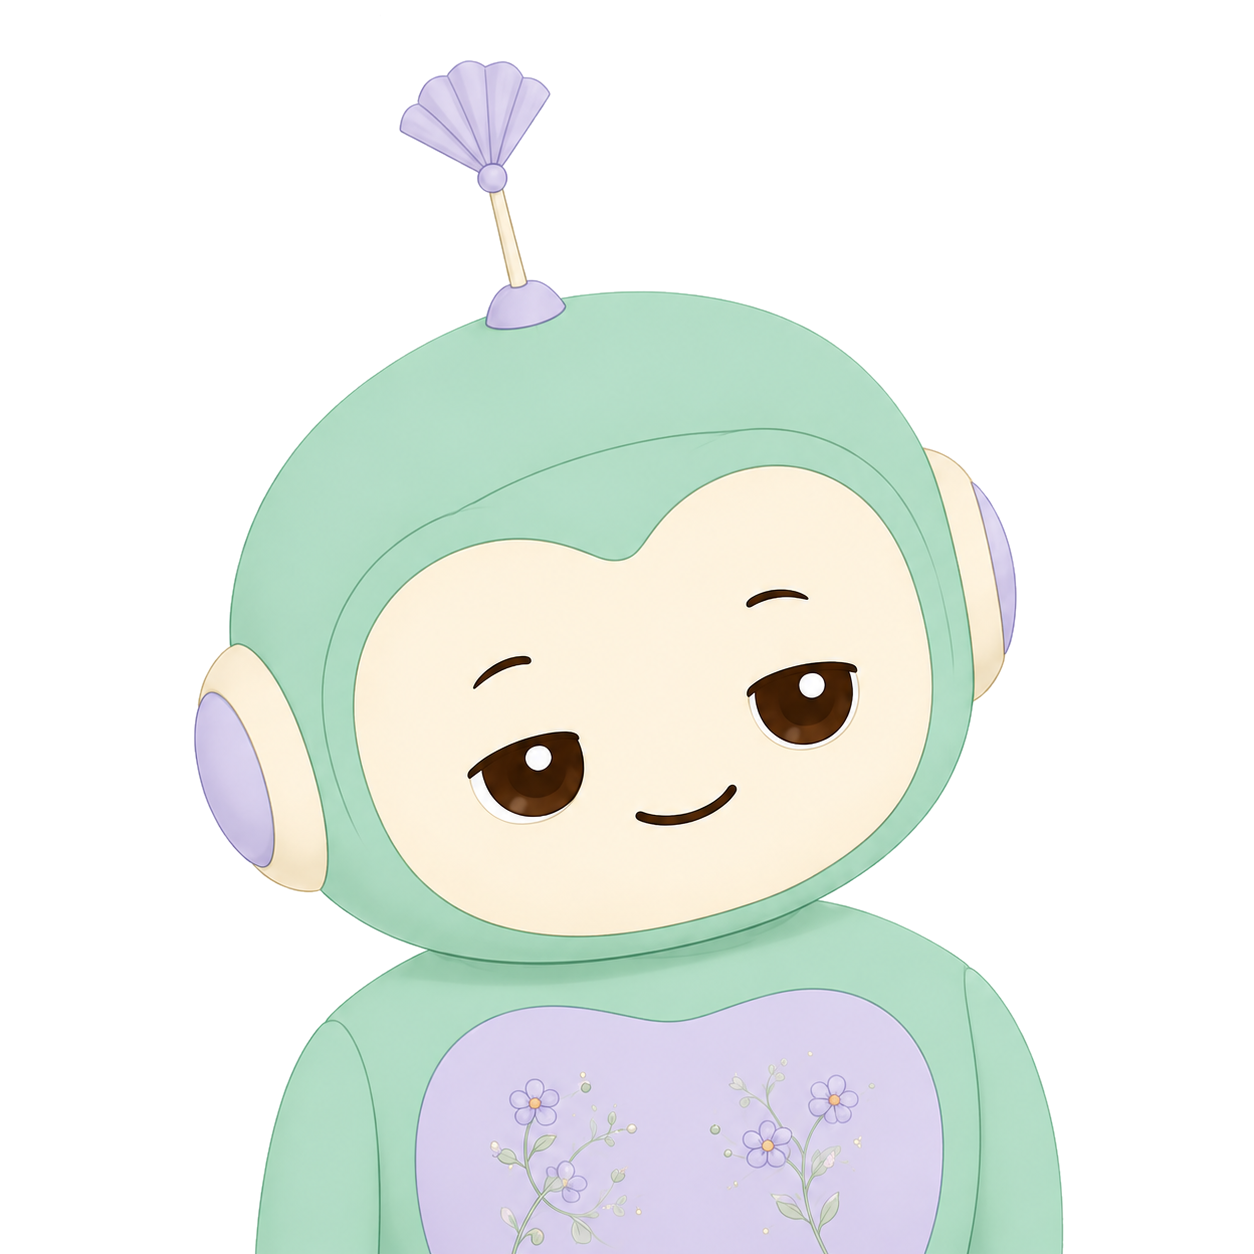
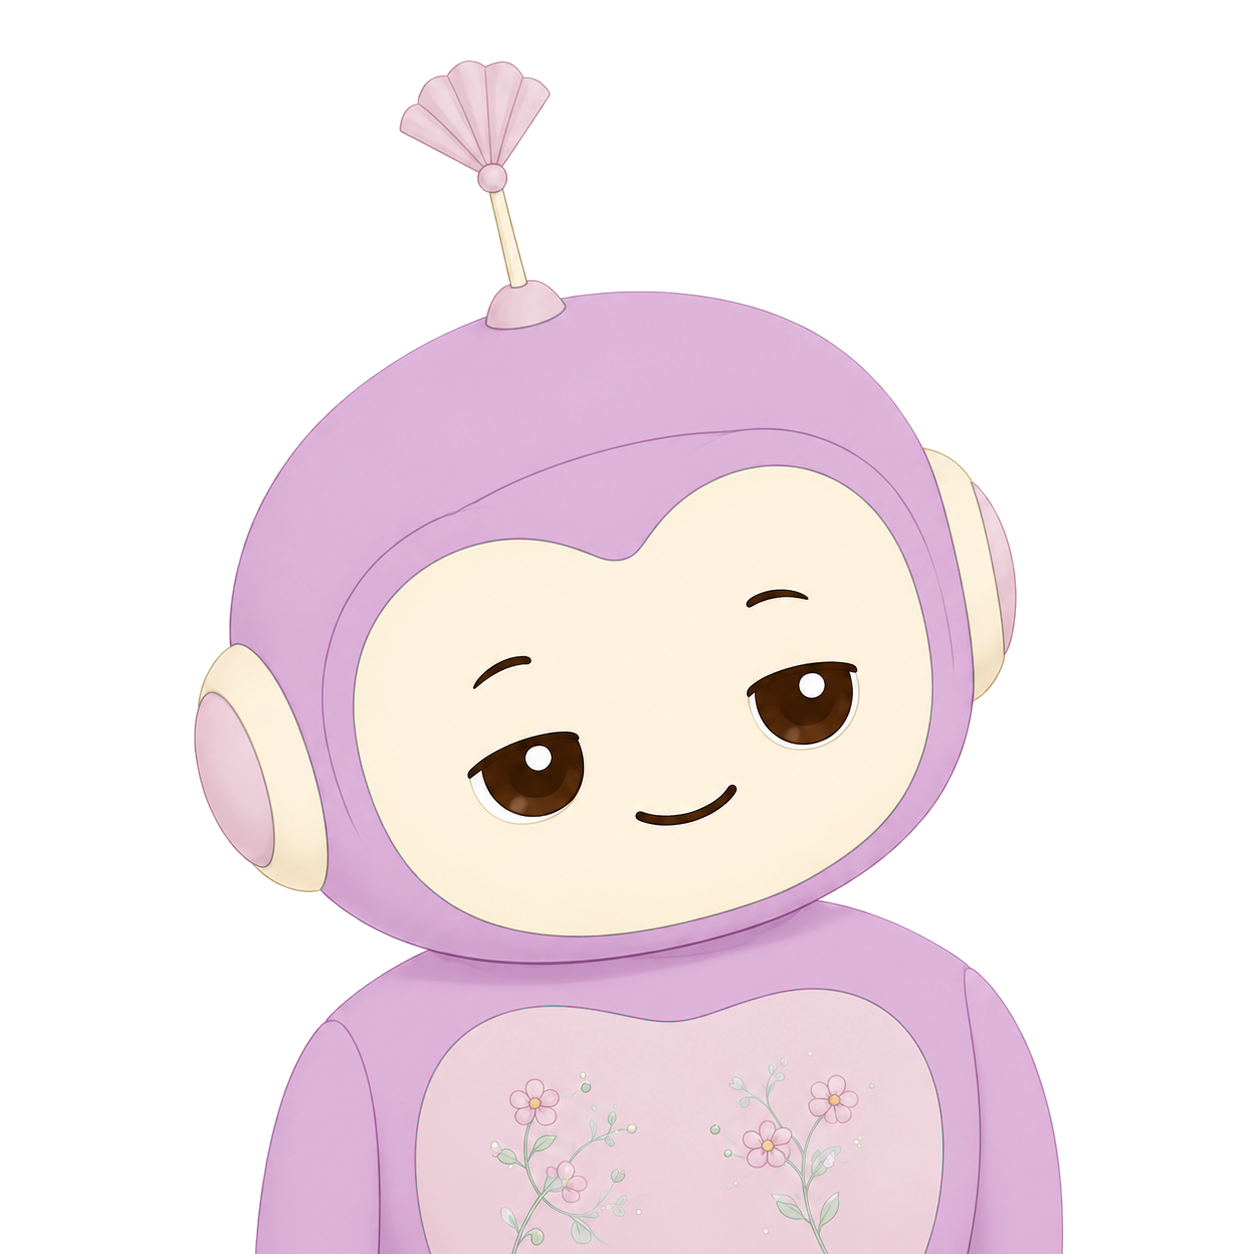
Ah Jan / Ah Bak: recolour to mauve family (decision 0031)
Ah Jan's mint body clashed with Tung Tung. Shift hue only (saturation
and brightness unchanged): Ah Jan body mint -> mauve, chest/fan lavender
-> pink; Ah Bak body blue-grey -> grey-violet. Tung Tung and Siu Yan
unchanged.

Code colours for the agent follow: registry accent, profile accent and
alt text, home tile halo/ring/pill, continue-chat initial colour. Pill
text contrast stays at 6.7:1.

Decision 0031, changelog, history, IMAGES.md updated; backlog #77 done.

Claude-Session: https://claude.ai/code/session_01C7YtE3r1uxeE5z2C5CSc33

diff --git a/lib/features/agent_profile/data/agent_profile_content.dart b/lib/features/agent_profile/data/agent_profile_content.dart
@@ -72,17 +72,17 @@ const Map<String, ProfileHeaderData> profileHeaders = {
     displayName: '阿珍',
     roleTagline: '聽你慢慢講嘅人',
     fullBodyImageAsset: 'assets/agents/ah_jan_fullbody.png',
-    accentColorHex: '#AFA9EC',
+    accentColorHex: '#C4A3CE',
     ctaLabel: '同阿珍傾偈',
-    altText: '阿珍，AI 機械人，淡紫色嘅聆聽者角色',
+    altText: '阿珍，AI 機械人，藕紫色嘅聆聽者角色',
   ),
   'ah_jan_ah_bak_masculine': ProfileHeaderData(
     displayName: '阿伯',
     roleTagline: '聽你慢慢講嘅人',
     fullBodyImageAsset: 'assets/agents/ah_bak_fullbody.png',
-    accentColorHex: '#AFA9EC',
+    accentColorHex: '#C4A3CE',
     ctaLabel: '同阿伯傾偈',
-    altText: '阿伯，AI 機械人，淡紫色嘅聆聽者角色',
+    altText: '阿伯，AI 機械人，灰紫色嘅聆聽者角色',
   ),
   'tung_tung': ProfileHeaderData(
     displayName: '通通',

diff --git a/lib/features/today/presentation/widgets/agent_tile_row.dart b/lib/features/today/presentation/widgets/agent_tile_row.dart
@@ -40,10 +40,10 @@ _AgentPalette _paletteFor(String agentId) {
       );
     case AgentRegistry.ahJanAhBakId:
       return const _AgentPalette(
-        halo: Color(0xFFEEEDFE),
-        ring: Color(0xFFB3ACDE),
-        pillBg: Color(0xFFB3ACDE),
-        pillFg: Color(0xFF2A2454),
+        halo: Color(0xFFF6EEF8),
+        ring: Color(0xFFC9A9D4),
+        pillBg: Color(0xFFC9A9D4),
+        pillFg: Color(0xFF3B2347),
       );
     case AgentRegistry.tungTungId:
       return const _AgentPalette(

diff --git a/lib/core/agents/agent_registry.dart b/lib/core/agents/agent_registry.dart
@@ -213,8 +213,8 @@ class AgentRegistry {
     AgentDefinition(
       id: ahJanAhBakId,
       role: 'reflective_peer_listener',
-      // Lavender — Spec §3 / agent profile page.
-      accentColor: Color(0xFFAFA9EC),
+      // Mauve — matches the Ah Jan / Ah Bak artwork (decision 0031).
+      accentColor: Color(0xFFC4A3CE),
       pprSubcomponent: PprSubcomponent.understanding,
       primaryModules: ['m3_reminiscence', 'm5_reflective_dialogue'],
       systemPromptKey: 'ah_jan_ah_bak_v1',

diff --git a/lib/features/today/presentation/widgets/continue_chat_card.dart b/lib/features/today/presentation/widgets/continue_chat_card.dart
@@ -276,9 +276,9 @@ _AgentPalette _paletteFor(String agentId) {
     case AgentRegistry.ahJanAhBakId:
       return const _AgentPalette(
         initial: '珍',
-        initialColor: Color(0xFF3C3489),
-        halo: Color(0xFFEEEDFE),
-        ring: Color(0xFFB3ACDE),
+        initialColor: Color(0xFF6A3A78),
+        halo: Color(0xFFF6EEF8),
+        ring: Color(0xFFC9A9D4),
       );
     case AgentRegistry.tungTungId:
       return const _AgentPalette(

diff --git a/tool/assets/recolor_hue.py b/tool/assets/recolor_hue.py
@@ -1,0 +1,25 @@
+"""Shift the hue of parts of an agent PNG, keeping each pixel's saturation
+and brightness (decision 0031: Ah Jan / Ah Bak recoloured without making
+them paler).
+
+Settings used on 2026-10-10 (run once on the transparent originals):
+    ah_jan_*:  hue_only(img, [(110, 185, 30, 305), (215, 300, 10, 340)])
+    ah_bak_*:  hue_only(img, [(160, 220, 30, 272)])
+Needs Pillow and numpy.
+"""
+import numpy as np
+from PIL import Image
+
+def hue_only(img, bands):
+    """bands: (hue_lo, hue_hi, min_sat, new_hue). Only the hue moves;
+    saturation and brightness of every pixel stay as drawn."""
+    rgba = np.asarray(img.convert('RGBA'))
+    hsv = np.asarray(img.convert('RGB').convert('HSV')).astype(np.float32)
+    h = hsv[..., 0] * 360 / 255
+    oh = h.copy()
+    for lo, hi, mins, nh in bands:
+        m = (rgba[..., 3] > 0) & (h >= lo) & (h <= hi) & (hsv[..., 1] >= mins)
+        oh[m] = (nh + (h[m] - np.median(h[m])) * 0.5) % 360
+    hsv[..., 0] = oh * 255 / 360
+    rgb = np.asarray(Image.fromarray(hsv.round().astype(np.uint8), 'HSV').convert('RGB'))
+    return Image.fromarray(np.dstack([rgb, rgba[..., 3]]), 'RGBA')

diff --git a/docs/STUDY_CHANGELOG.md b/docs/STUDY_CHANGELOG.md
@@ -4,6 +4,7 @@
 
 | 日期 | Tag | 改动 | 影响（cohort × 组别） | 生效方式 | 决策记录 |
 |---|---|---|---|---|---|
+| 2026-10-10 | — | **阿珍、阿伯改成紫色系**：阿珍身体从薄荷绿改成藕紫，胸口和扇子改淡粉；阿伯身体从灰蓝改成灰紫。只改颜色，深浅、图案、表情不变。首页卡片的圈和底色、「傾偈」按钮、介绍页主题色跟着改成紫色系。通通、小欣不变。参与者能感受到的：阿珍/阿伯颜色变了，和通通不再撞色。未打 phaseB tag | 所有 cohort × 两组（相同） | 随包含此提交的下一个 App 版本；须在第一位参与者入组前 | 0031 |
 | 2026-10-10 | — | 陪伴者图片（小欣、阿珍、阿伯、通通的头像和全身图）去掉画在图里的灰白格子，改成真正的透明背景。人物本身、颜色、大小都没改。参与者能感受到的：头像和介绍页里人物背后原来隐约的格子没了，首页卡片上头像背后露出原有的浅色底圈。未打 phaseB tag | 所有 cohort × 两组（相同） | 随包含此提交的下一个 App 版本 | — |
 | 2026-10-07 | — | （T19，PR 草稿）**Phase B 分组重做**：① 老人注册后，由非盲研究员在 App 的「研究員登記」页录入研究编号、W0 纸本 DJG 情感分（0–3，提交前再选一次）、阿珍/阿伯和 W0 日期，服务器按情感分分层（0–1 / 2–3），从预先生成的 1:1 置换区组序列（区组 2 和 4 混用）取下一个位置分组并记日志；重复提交不重抽；更正只能用脚本并写理由。旧的最小化分配（UCLA × 年龄）删除，HTML 随机化工具停用。② 第 2 周 DJG 等按 W0 算日子的地方改为先用登记的 W0 日期，没有再用账号创建日。③ 角色改名：非盲 = `unblinded`（Keran），盲法 = `blinded`（含 PI）；旧的 `pi`、`researcher` 失效，要重新发放。④ 发给 PI 的安全告警和邮件不再带来源、输入点、陪伴者（这些能推出组别），两组内容相同，告警照发。⑤ 规则组调用 LLM 被拒时记一条日志。参与者能感受到的：登记前看到规则组界面（和以前分组失败时一样）；登记后重开 App 才按组别显示。**开关 `meta/randomization_config.enabled` 默认关**，关着时 Phase B 不能登记、`assignArm` 照旧给 Phase A 分 A 组。未打 phaseB tag | ①② phase_b × 两组；③④ 所有 cohort（研究人员）；⑤ phase_b × 规则组 | ③④⑤ 随合并后的下一次 Functions + 规则部署；①② 部署、上传序列、打开开关的那天起（在这里补一行日期） | 0029 |
 | 2026-10-07 | — | （T17b，PR 草稿）ADA 按定稿规格 `docs/spec/instruments/ada.md` v1.0 补做：① 题目和选项改为粤语原文（A"過去 7 日"、完全冇 / 一次 / 兩至三次 / 四次或以上），版本号 `ada-v1.0-20261007`，旧占位数据不动；陪伴者名字旁加头像。② **第 1 次到访短版改为 B + D**（原占位 A+B+D），第 7 日全版 A+B+C+D。③ 第 1 次到访最后加一屏选第 7 日提醒时间。④ 第 7 日两部分（ADA、开放题）合成一个流程、一张首页卡，有进度、可中途停、下次接着做；每屏有"唔識填？打俾研究員"。⑤ 第 7 日推送一次、24 小时没做完再推一次，开放到第 9 日，之后记已超时；推送文字是【占位】，定稿前服务器不发。⑥ 研究员页面看完成情况、电话代填（记 `phone_by_staff`），代填的文字由服务器做安全检测。**开关 `adaEnabled`、`day7OpenEndedEnabled` 仍默认关，PI 书面确认截图前不打开**。未打 phaseB tag | phase_a × 两组（相同）；Phase B 构建看不到 | 合并部署后仍不生效，直到研究侧在 `app_config/phaseA_schedule` 打开开关，打开当天在这里补一行 | 0030 |

diff --git a/docs/decisions/0031-ah-jan-ah-bak-mauve.md b/docs/decisions/0031-ah-jan-ah-bak-mauve.md
@@ -1,0 +1,44 @@
+# 0031：阿珍、阿伯改成紫色系（阿珍藕紫、阿伯灰紫），通通保留绿色
+
+- 日期：2026-10-10
+- 状态：已采纳（负责人 2026-10-10 在预览里选定方案 C）。第一位参与者入组前请 PI 过目
+- 影响范围：所有 cohort × 两组（相同）
+- 相关代码：分支 `claude/eloquent-ride-55w633`；`assets/agents/ah_jan_*.png`、`assets/agents/ah_bak_*.png`、`lib/core/agents/agent_registry.dart`、`lib/features/agent_profile/data/agent_profile_content.dart`、`lib/features/today/presentation/widgets/agent_tile_row.dart`、`continue_chat_card.dart`
+
+## 背景
+
+阿珍的图是薄荷绿身体，和通通几乎同色，选了阿珍的老人首页会看到两个绿色机械人。阿珍、阿伯在代码里的主题色是淡紫（`#AFA9EC`），图里却是绿色和灰蓝色，对不上。负责人看图也觉得现在的配色不舒服。
+
+## 决定
+
+1. 通通不变（绿色）。小欣不变。
+2. 阿珍：身体从薄荷绿改成藕紫，胸口和扇子从淡紫改成淡粉。阿伯：身体从灰蓝改成灰紫。
+3. **只改色相，不改深浅**：每个像素原来多浅、多饱和都保持原样，图案、表情、线条都不动。负责人看了预览，明确不要把颜色调浅。用的脚本是 `tool/assets/recolor_hue.py`。
+4. 代码里阿珍/阿伯的颜色跟着改成同一个紫色系：
+
+| 用在哪里 | 原来 | 现在 |
+|---|---|---|
+| 主题色（找不到图时的圆圈、介绍页） | `#AFA9EC` | `#C4A3CE` |
+| 首页卡片头像底色 | `#EEEDFE` | `#F6EEF8` |
+| 首页卡片头像圈、「傾偈」按钮底色 | `#B3ACDE` | `#C9A9D4` |
+| 「傾偈」按钮文字 | `#2A2454` | `#3B2347`（和底色对比 6.7:1，原来 6.7:1） |
+| 首页「繼續傾偈」建议条上的「珍」字 | `#3C3489` | `#6A3A78`（和底色对比 7.4:1） |
+
+5. 介绍页图片的读屏说明从「淡紫色」改为阿珍「藕紫色」、阿伯「灰紫色」。
+
+## 考虑过的其他方案
+
+| 方案 | 为什么没选 |
+|---|---|
+| 阿珍淡紫、阿伯灰紫（颜色调浅） | 预览里胸口和扇子太浅，像半透明，负责人觉得奇怪 |
+| 奶茶色 | 负责人选了紫色系 |
+| 雾蓝 | 偏冷 |
+| 蜂蜜黄 | 通通身上也有黄色，小欣是暖橙，三个都挤在暖色区 |
+| 改通通的颜色 | 负责人定通通就是绿色 |
+| 重画（连表情一起改） | 这里做不到，要另找画师或出图工具；先只改颜色 |
+
+## 后果
+
+- 对研究：Phase A 在测「分不分得清三位陪伴者」（ADA）。这次改色是为了让陪伴者更好分，要在第一位参与者入组前上线，两组看到的完全一样。入组后再改，就要按 protocol deviation 记录。
+- 对开发：4 张图 + 4 个文件的颜色常量。没有逻辑改动。
+- 对论文：方法部分描述陪伴者形象时，阿珍/阿伯写紫色系。

diff --git a/IMAGES.md b/IMAGES.md
@@ -9,8 +9,8 @@
 | 角色 | 定位 | 形象 | 主题色（代码） | 图片 |
 |---|---|---|---|---|
 | 小欣 | 日常陪伴 | 珊瑚橙色机械人；天线顶是一颗心，胸口心形；双手捧一杯花纹茶杯；大眼睛、笑 | 珊瑚 `#F0997B` | `siu_yan_avatar.png`、`siu_yan_fullbody.png` |
-| 阿珍 | 听你讲往事（女版） | 薄荷绿身体，耳朵和胸口淡紫；胸前小花刺绣；拿一把紫色折扇；天线是扇形；眼神温和、微微侧头 | 淡紫 `#AFA9EC` | `ah_jan_avatar.png`、`ah_jan_fullbody.png` |
-| 阿伯 | 听你讲往事（男版） | 灰蓝色身体，方形脸屏；一手拿笔、一手拿笔记本；天线像一卷书轴；表情沉稳 | 淡紫 `#AFA9EC` | `ah_bak_avatar.png`、`ah_bak_fullbody.png` |
+| 阿珍 | 听你讲往事（女版） | 藕紫色身体，耳朵和胸口淡粉；胸前小花刺绣；拿一把淡粉折扇；天线是扇形；眼神温和、微微侧头 | 藕紫 `#C4A3CE` | `ah_jan_avatar.png`、`ah_jan_fullbody.png` |
+| 阿伯 | 听你讲往事（男版） | 灰紫色身体，方形脸屏；一手拿笔、一手拿笔记本；天线像一卷书轴；表情沉稳 | 藕紫 `#C4A3CE` | `ah_bak_avatar.png`、`ah_bak_fullbody.png` |
 | 通通 | 好奇的街坊 | 薄荷绿身体配黄边；天线顶是一本打开的书；一手放大镜、一手拿书；胸口灯泡和问号；张嘴笑 | 薄荷 `#5DCAA5` | `tung_tung_avatar.png`、`tung_tung_fullbody.png` |
 
 **在哪里用**
@@ -25,11 +25,11 @@
 - 换新图时直接覆盖同名文件，必须是真正的透明背景，不要带格子或白底。放到深色和橙色底上各看一次，边缘不能有白边。
 - 头像会被裁成圆形（`BoxFit.cover`），所以头和上半身要在画面中间。
 
-**已知问题（待定）**
+**颜色**
 
-- 阿珍和通通都是薄荷绿身体，选了阿珍的老人在首页会看到两个绿色机械人。
-- 阿珍、阿伯的主题色是淡紫，但图里阿珍是绿色、阿伯是灰蓝色，对不上。
-- 怎么改见 `docs/dev/backlog.md` 第 77 项。改形象属于界面改动，要先写决策记录。
+- 2026-10-10 起阿珍、阿伯改成紫色系（决策 0031），原来阿珍是薄荷绿、阿伯是灰蓝，和通通撞色。只改了色相，深浅不变，用的是 `tool/assets/recolor_hue.py`。
+- 以后重画或调色：通通保持绿色，阿珍/阿伯保持紫色系，**不要把颜色调浅**（调浅后胸口和扇子像半透明）。
+- 改了图的颜色，代码里的主题色也要一起改：`agent_registry.dart`、`agent_profile_content.dart`、`agent_tile_row.dart`、`continue_chat_card.dart`。
 
 ---
 

diff --git a/docs/dev/backlog.md b/docs/dev/backlog.md
@@ -58,7 +58,6 @@
 | 39 | `hotline_rule.v1.txt` 还没进 `kArtefactHashes`（`tool/export_spec_inputs.py` 只列三个 persona 文件）。重新生成 `build_info.g.dart` 时一并加上 | T7 | 开发 |
 | 40 | **重新打开语音**：HREC 批准 STT 后把 `app_config/feature_flags.voiceInputEnabled` 设为 `true`。之前先定是否允许系统云端识别；键盘自带语音 App 关不掉，ICF 要不要提 | T9 报告第 7 节 | 负责人 / 研究侧 |
 | 41 | 通通固定回应的文字和关键词表定稿；通通 prompt v2（去掉"幫你查"邀请）**PI 审核** | T9 报告第 4、8 节 | 研究侧 / PI |
-| 77 | **阿珍和通通撞色**：两个都是薄荷绿机械人，选了阿珍的老人首页会看到两个绿色角色；阿珍/阿伯的主题色是淡紫，图里却是绿和灰蓝。可选：① 阿珍改淡紫身体、阿伯改灰紫（只调色不重画，和主题色一致，推荐）；② 通通改色（要连主题色一起改）；③ 不改图。Phase A 在测「分不分得清三位陪伴者」，改形象可能影响这个测量，要选在入组前，并先写决策记录 | `IMAGES.md` 第 1 部分；2026-10-10 对话里的配色预览 | 负责人 / PI |
 | 42 | 搜一搜若要重开：搜索词先过安全检测（T7 统一入口）、去个人信息；开关只在 App 启动时读，新装第一次打开读不到 | T2、T9 | 负责人 |
 | 46 | 盲法：**10/7 已定**非盲研究员是 Keran，PI（Junyu）是盲法评估者。**T19 已改代码**（决策 0029）：角色改名 `unblinded` / `blinded`，旧 `pi` 失效；给 PI 的告警和邮件去掉能推出组别的字段。还没定：Brief PR、使用量要不要在揭盲前给盲法分析员；过程数据揭盲前不导出是否影响统计分析计划；盲法分析员揭盲前能看到什么 | 决策 0021、0029；T12、T19 报告 | 研究侧 / 统计师 |
 | 47 | 盲法开关 `meta/blinding_config.enabled` 何时打开；打开前已产生的旧导出文件（含原始 uid）删不删、谁保管 | T12 报告 | 负责人 |

diff --git a/docs/history.md b/docs/history.md
@@ -6,6 +6,13 @@
 
 ---
 
+## 2026-10-10 陪伴者图片：透明背景；阿珍、阿伯改紫色
+
+- 8 张陪伴者图片原来把灰白格子画在图里（不是真透明），已改成真正的透明背景，人物不变。
+- 阿珍（薄荷绿）和通通撞色。负责人看了几套预览（淡紫、奶茶、雾蓝、藕紫、蜂蜜黄），选了藕紫，并要求不要调浅颜色。阿珍改藕紫、阿伯改灰紫，只改色相；代码里的主题色和首页卡片颜色跟着改。决策 0031。
+- `IMAGES.md` 改写成现在的机械人形象说明，删掉过时的真人肖像出图要求。
+- 表情（阿珍半闭眼、阿伯垂眼）没改，要改得重画。
+
 ## 2026-10-09 产品窗口 10/8 交接和 10/9 决定排进第六批（T25–T29）；登记表 v5
 
 - **定了**（10/9 第 1–3 条和补充）：盲法导出维持决策 0021，数据收集期间不含 Brief PR 和每人会话数，另做全体合并的完成率；语音改为 App 录音上传服务器 STT v2（`chirp_2`，`asia-southeast1`），只存文字，失败退 global 区先做成配置项；有效会话按"完成一个互动单元"（自由聊天 3 条消息，签到和回忆按完成模块流程，规则组一次提交算一次，决策 0015 保留）；LoRA 两组共用；试跑编号 PILOT-01 起、不收集收款资料。
